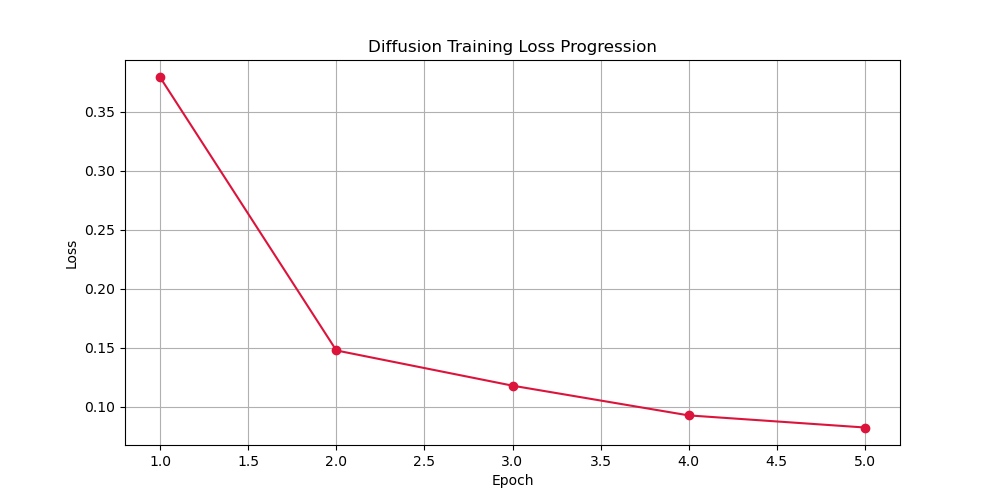
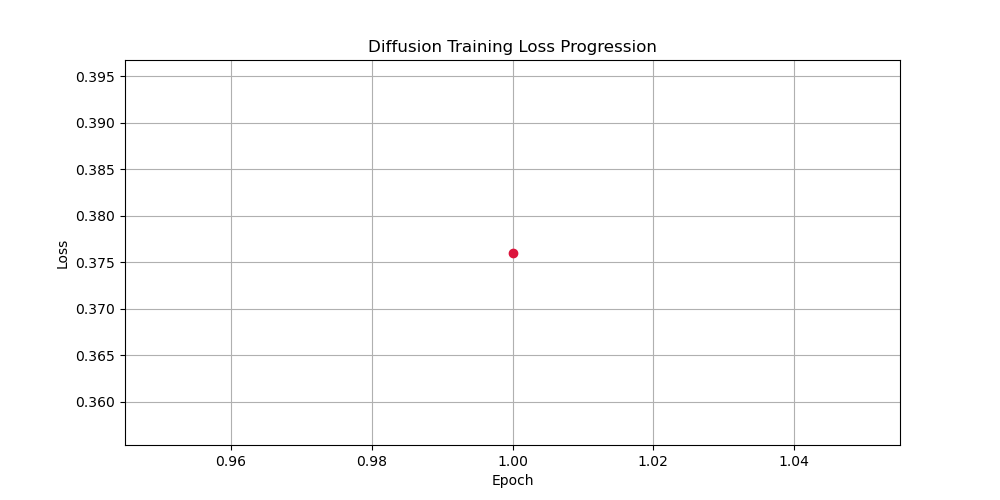
Moved parameters to yaml file

diff --git a/Model.py b/Model.py
@@ -14,6 +14,7 @@ import torch.optim as optim
 import torch.nn.functional as F
 from torch.utils.data import Dataset, DataLoader
 from torchvision import transforms
+import yaml
 
 import warnings
 warnings.filterwarnings('ignore')
@@ -22,16 +23,19 @@ warnings.filterwarnings('ignore')
 # 1. Configuration & Setup
 # ==========================================
 # This path is verified from your file listing
-DATA_DIR = 'dataset/'
-OUTPUT_DIR = 'predictions'
+directory = yaml.safe_load(open("parameters.yaml"))['data']
+params = yaml.safe_load(open("parameters.yaml"))['parameters']
+
+DATA_DIR = directory['dataset']
+OUTPUT_DIR = directory['output']
 
 os.makedirs(OUTPUT_DIR, exist_ok=True)
 
-EPOCHS = 5
-BATCH_SIZE = 32
-LEARNING_RATE = 2e-4
-IMG_SIZE = 64
-TIMESTEPS = 200 
+EPOCHS = params['epochs']
+BATCH_SIZE = params['batch_size']
+LEARNING_RATE = params['lr']
+IMG_SIZE = params['img_size']
+TIMESTEPS = params['timesteps']
 
 #DEVICE = torch.device('cuda' if torch.cuda.is_available() else 'cpu')
 DEVICE = torch.device("mps" if torch.backends.mps.is_available() else "cpu")
@@ -53,12 +57,12 @@ class WatermarkDataset(Dataset):
         
         
         if is_test:
-            search_pattern = os.path.join(self.root_dir, "test/*.png")
+            search_pattern = os.path.join(directory['test'], "*.png")
             all_pngs = glob.glob(search_pattern, recursive=True)
             # Filter for images in the 'test' directory
             self.image_paths = sorted(all_pngs)
         else:
-            search_pattern = os.path.join(self.root_dir, "train/**/*.png")
+            search_pattern = os.path.join(directory['train'], "**/*.png")
             all_pngs = glob.glob(search_pattern, recursive=True)
             # Filter for images NOT in the 'test' directory (training pairs)
             self.image_paths = sorted([p for p in all_pngs if 'clean' not in p.lower()])
@@ -203,7 +207,7 @@ if __name__ == '__main__':
             pbar.set_postfix({'Loss': f"{loss.item():.4f}"})
         history_loss.append(running_loss / len(train_dataset))
 
-    torch.save(model.state_dict(), "Model/model.pth")
+    torch.save(model.state_dict(), directory['model']+"/model.pth")
     # Save Loss Graph
     plt.figure(figsize=(10, 5))
     plt.plot(range(1, EPOCHS + 1), history_loss, marker='o', color='crimson')
@@ -238,20 +242,4 @@ if __name__ == '__main__':
             for idx in range(b):
                 Image.fromarray(reverse_transform(x[idx])).save(os.path.join(OUTPUT_DIR, filenames[idx]))
 
-    # ==========================================
-    # 7. Final submission.csv
-    # ==========================================
-    submission_data = []
-    predicted_files = sorted([f for f in os.listdir(OUTPUT_DIR) if f.endswith('.png')])
-
-    for filename in tqdm(predicted_files, desc="Encoding Results"):
-        with open(os.path.join(OUTPUT_DIR, filename), "rb") as f:
-            encoded_str = base64.b85encode(f.read()).decode("utf-8")
-        submission_data.append({
-            "datapointID": filename, 
-            "subtaskID": 1, 
-            "answer": encoded_str
-        })
-
-    pd.DataFrame(submission_data).to_csv('submission.csv', index=False)
-    print("\nComplete! 'submission.csv' generated.")
+    
